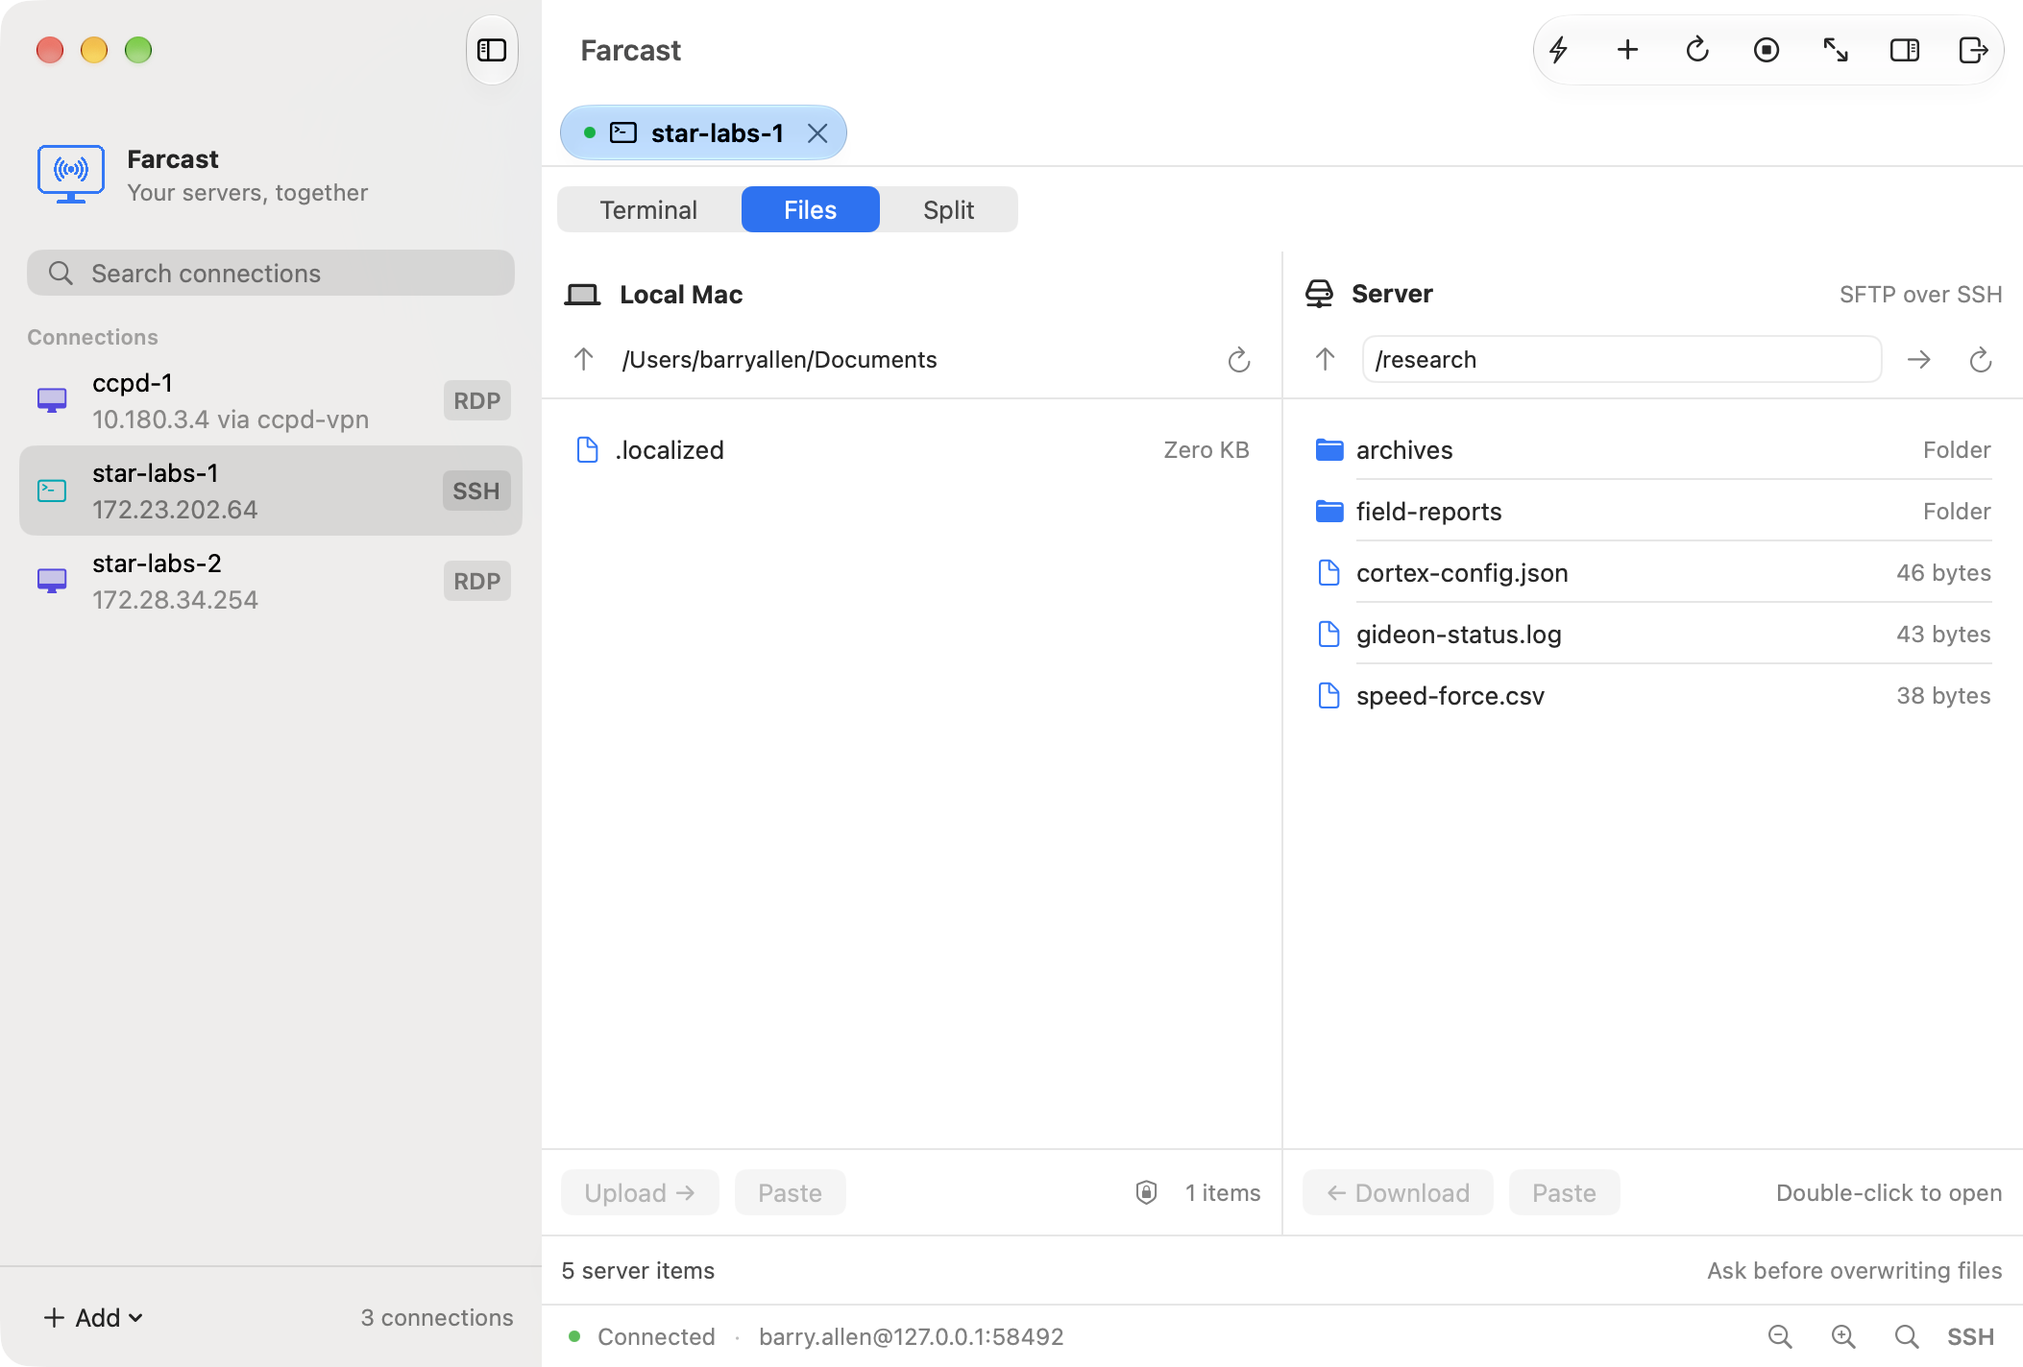
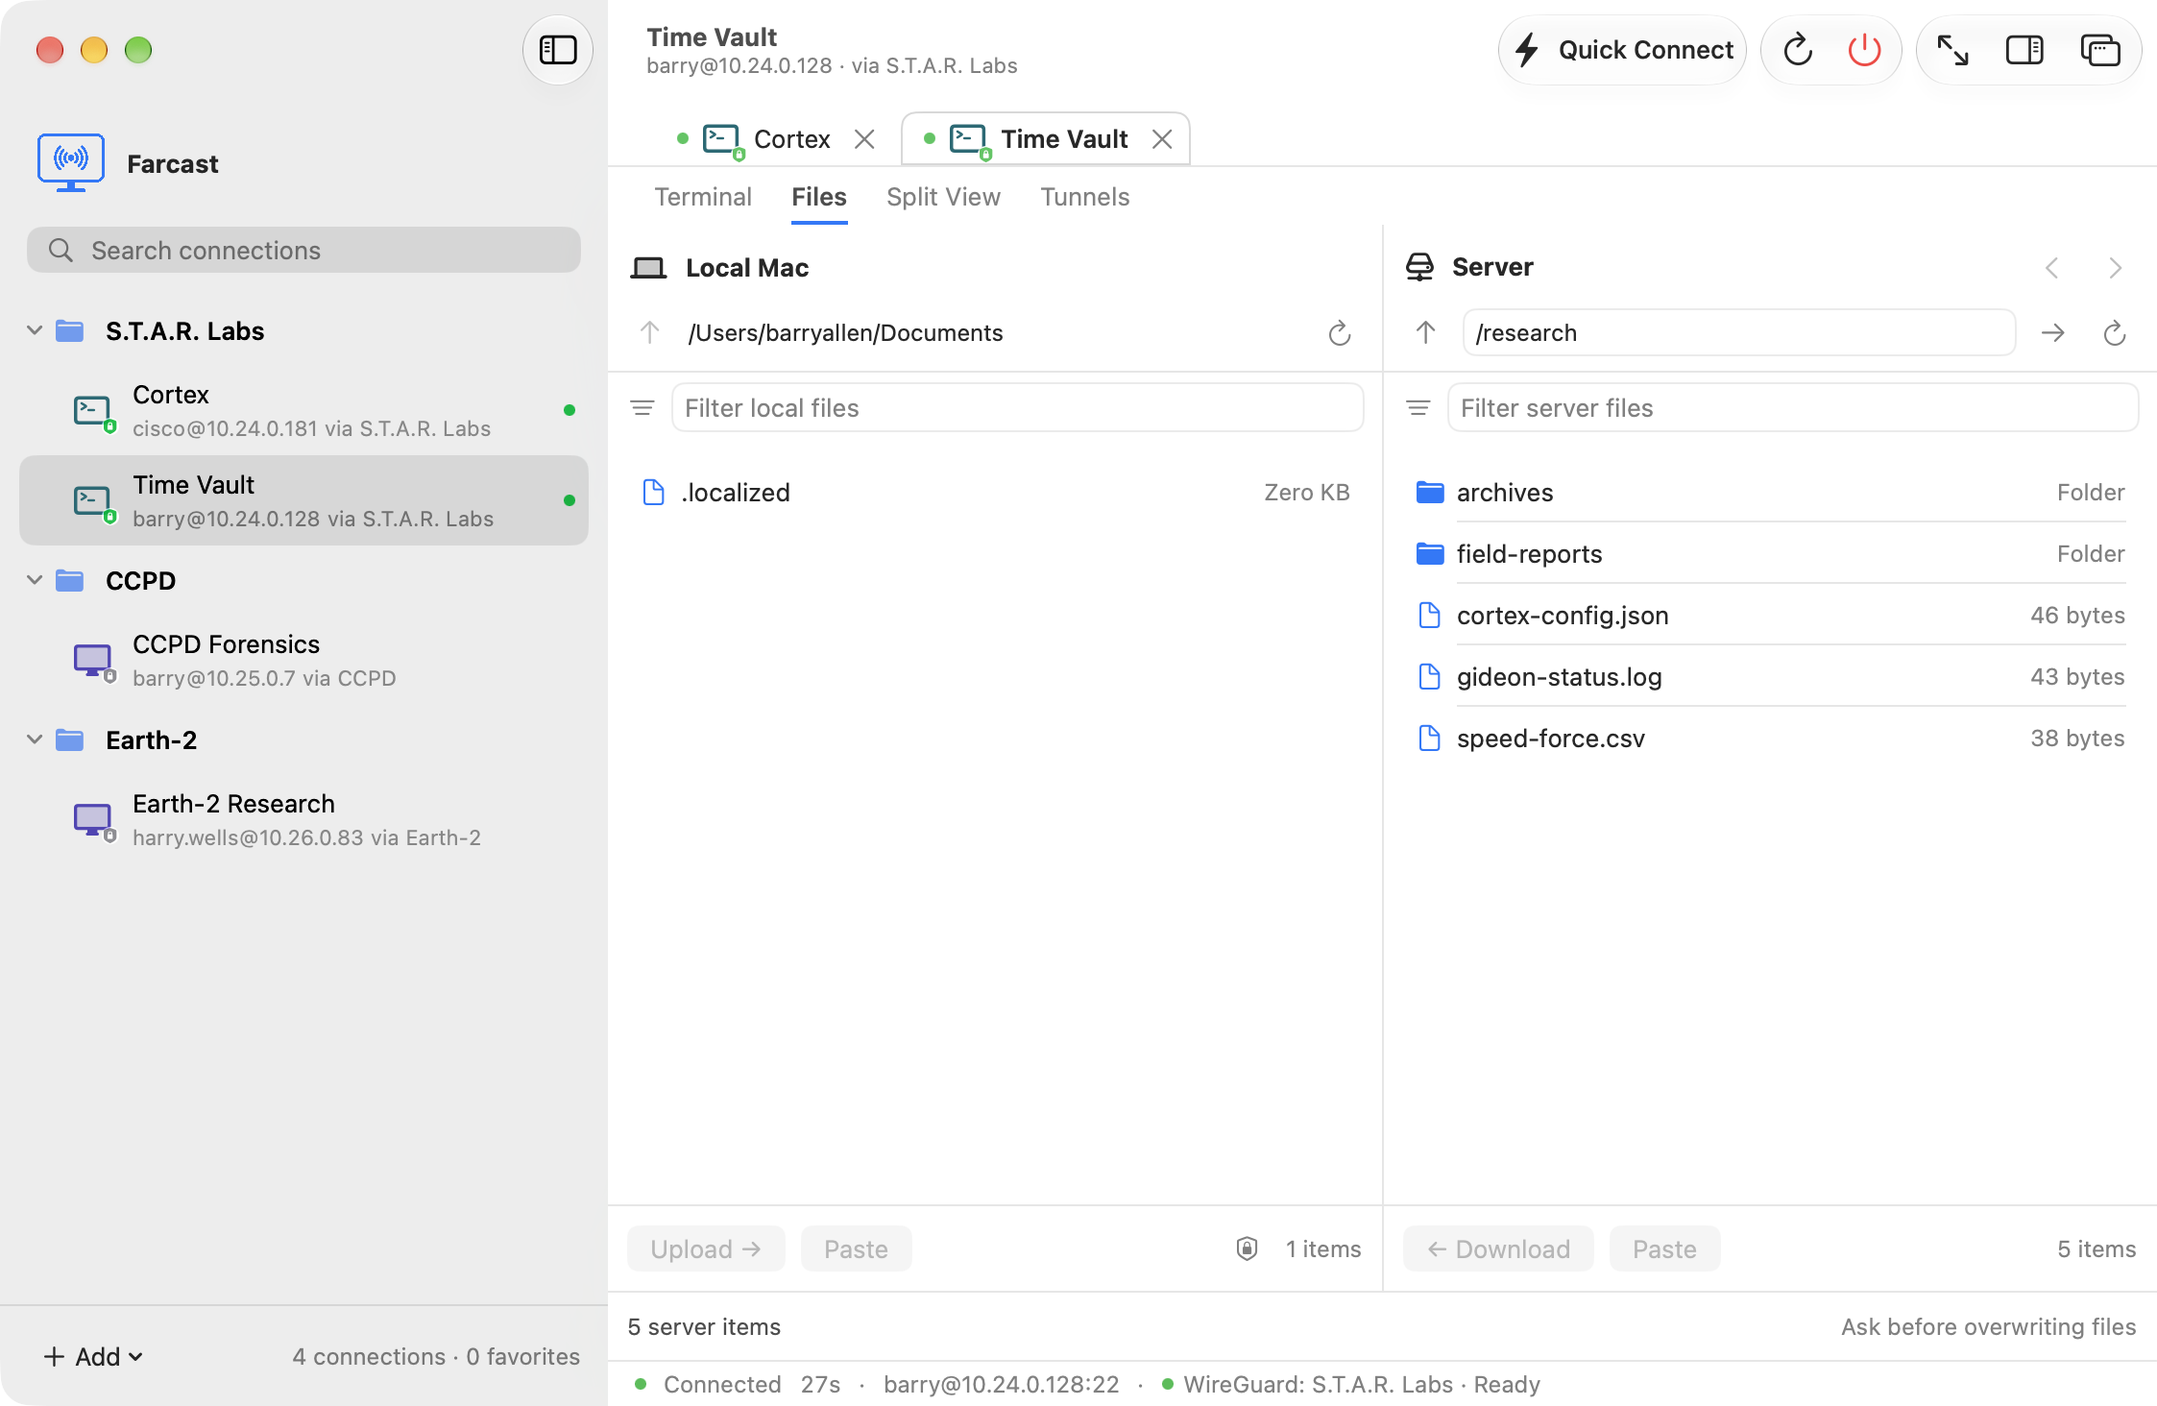
update screenshots

diff --git a/Showcase/ShowcaseLibrary.swift b/Showcase/ShowcaseLibrary.swift
@@ -25,6 +25,25 @@ import SwiftData
             let favorite: Bool
             let files: Bool?
         }
+        struct SFTP: Decodable {
+            struct Pane: Decodable {
+                struct Entry: Decodable {
+                    let name: String
+                    let directory: Bool
+                    let size: UInt64
+                }
+                let path: String
+                let folders: [String: [Entry]]
+                func files(at path: String) -> [TransferFile] {
+                    (folders[path] ?? []).map {
+                        TransferFile(name: $0.name, directory: $0.directory, regular: !$0.directory, size: $0.size)
+                    }
+                }
+            }
+            let local: Pane
+            let remote: Pane
+        }
+        let sftp: SFTP
         let vpns: [VPN]
         let connections: [Connection]
     }
@@ -63,15 +82,30 @@ import SwiftData
                 session.state == .connected && workspace.prompts.isEmpty,
                 "Demo session did not connect without prompts.")
             if saved.kind == .ssh {
-                try require(
-                    session.files.remoteFiles.count == SFTPController.showcaseFiles.count,
-                    "Demo remote file listing is missing.")
-                session.files.navigateRemote(path: "/home/research/Reports")
-                try require(
-                    session.files.remotePath == "/home/research/Reports", "Demo remote folder navigation failed.")
-                try require(
-                    session.files.localFiles.count == SFTPController.showcaseFiles.count,
-                    "Demo local file listing is missing.")
+                let localPath = sftp.local.path
+                let remotePath = sftp.remote.path
+                let expectedLocal = sftp.local.files(at: localPath)
+                let expectedRemote = sftp.remote.files(at: remotePath)
+                try require(session.files.remotePath == remotePath, "Demo remote starting path is incorrect.")
+                try require(session.files.remoteFiles == expectedRemote, "Demo remote listing differs from catalog.")
+                try require(session.files.localURL?.path == localPath, "Demo local starting path is incorrect.")
+                try require(session.files.localFiles == expectedLocal, "Demo local listing differs from catalog.")
+                for path in sftp.remote.folders.keys.sorted() {
+                    session.files.navigateRemote(path: path)
+                    try require(session.files.remotePath == path, "Demo remote navigation failed.")
+                    try require(
+                        session.files.remoteFiles == sftp.remote.files(at: path),
+                        "Demo remote folder differs from catalog.")
+                    try require(
+                        session.files.localFiles == expectedLocal, "Demo remote navigation changed local content.")
+                }
+                for path in sftp.local.folders.keys.sorted() {
+                    session.files.localURL = URL(fileURLWithPath: path, isDirectory: true)
+                    session.files.refreshLocal()
+                    try require(
+                        session.files.localFiles == sftp.local.files(at: path),
+                        "Demo local folder differs from catalog.")
+                }
             } else {
                 try require(session.desktop?.mailbox.snapshot()?.1.width == 1440, "Demo desktop frame is missing.")
                 try require(
@@ -93,6 +127,7 @@ import SwiftData
             "PASS showcase: \(connections.count) catalog connections and \(vpns.count) VPN profiles; seeded sessions, file/desktop content, reconnect and disconnect"
         )
     }
+    static var sftp: Catalog.SFTP!
     static var fileProfiles = Set<UUID>()
     static func loadCatalog() throws -> Catalog {
         guard let url = Bundle.main.url(forResource: "catalog", withExtension: "json") else {
@@ -110,6 +145,7 @@ import SwiftData
     }
     static func seed(_ container: ModelContainer) throws {
         let catalog = try loadCatalog()
+        sftp = catalog.sftp
         let context = container.mainContext
         var folders: [String: UUID] = [:]
         for connection in catalog.connections where folders[connection.folder] == nil {
@@ -131,7 +167,7 @@ import SwiftData
             vpnIDs.append(saved.id)
             var credential = ConnectionCredential()
             credential.wireGuardPrivateKey = Data(repeating: 24, count: 32).base64EncodedString()
-            credential.openVPNUsername = "barry.allen"
+            credential.openVPNUsername = "barry"
             try CredentialStore.save(credential, for: saved.id)
         }
         for connection in catalog.connections {

diff --git a/Showcase/Session.swift b/Showcase/Session.swift
@@ -5,38 +5,33 @@ extension RemoteSession {
         vpnState = profile.wireGuardID == nil ? .disconnected : .connected
         record("Session connected.")
         if let terminal {
-            files.showcaseListing(path: "/home/\(profile.username)")
+            files.showcaseListing(path: ".")
             if ShowcaseLibrary.fileProfiles.contains(profile.id) { sshMode = .files }
+            let prompt = "barry@star-labs:~$ "
             let text = """
-                \u{1B}[1;36mWelcome to \(profile.host)\u{1B}[0m
-                Ubuntu 24.04.3 LTS · arm64 · Secure Shell
+                S.T.A.R. LABS
+                Scientific and Technological Advanced Research Laboratories
 
-                  System load:  0.08              Processes:       142
-                  Memory usage: 24%               Users logged in: 2
-                  Disk usage:   18% of 240 GB     Updates:         0 pending
+                \(prompt)gideon status
 
-                \u{1B}[32m\(profile.username)@\(profile.host)\u{1B}[0m:~$ systemctl --user status research-stack
-                \u{1B}[32m●\u{1B}[0m research-stack.service - Research services
-                     Loaded: loaded; enabled
-                     Active: \u{1B}[32mactive (running)\u{1B}[0m
+                  \u{1B}[32mGideon is online. All systems are operational.\u{1B}[0m
 
-                  SERVICE                STATUS       UPTIME      HEALTH
-                  telemetry-api          running      12d 04h     healthy
-                  archive-worker         running      12d 04h     healthy
-                  metrics-collector      running      12d 04h     healthy
-                  backup-scheduler       running       3d 17h     healthy
+                  Service                 Status      Last update
+                  Cortex telemetry        running     2 minutes ago
+                  Speed Force monitor     stable      12 seconds ago
+                  Particle accelerator    standby     1 hour ago
+                  Central City sensors    connected   just now
 
-                \u{1B}[32m\(profile.username)@\(profile.host)\u{1B}[0m:~$ ls projects
-                \u{1B}[1;34marchives  cortex  telemetry  reports\u{1B}[0m
+                \(prompt)ls research
+                \u{1B}[34mfield-reports  telemetry  archives\u{1B}[0m
 
-                \u{1B}[32m\(profile.username)@\(profile.host)\u{1B}[0m:~$ 
+                \(prompt)
                 """
             terminal.view.feed(text: text.replacingOccurrences(of: "\n", with: "\r\n"))
-            let username = profile.username
             terminal.sendBytes = { [weak terminal] bytes in
                 guard let terminal else { return }
                 if bytes.contains(13) {
-                    terminal.view.feed(text: "\r\nAll services healthy.\r\n\u{1B}[32m\(username)\u{1B}[0m:~$ ")
+                    terminal.view.feed(text: "\r\nGideon is online. All systems are operational.\r\n\(prompt)")
                 } else {
                     terminal.view.feed(byteArray: Array(bytes)[...])
                 }

diff --git a/Showcase/Files.swift b/Showcase/Files.swift
@@ -1,22 +1,9 @@
 extension SFTPController {
     func showcaseListing(path: String) {
         requested = true
-        remotePath = path == "." ? "/home/cisco.ramon" : path
-        remoteFiles = Self.showcaseFiles
+        remotePath = path == "." ? ShowcaseLibrary.sftp.remote.path : path
+        remoteFiles = ShowcaseLibrary.sftp.remote.files(at: remotePath)
         recordRemoteVisit(remotePath)
         message = "\(remoteFiles.count) server items"
-    }
-    static var showcaseFiles: [TransferFile] {
-        [
-            TransferFile(name: "Archives", directory: true, regular: false, size: 0),
-            TransferFile(name: "Projects", directory: true, regular: false, size: 0),
-            TransferFile(name: "Reports", directory: true, regular: false, size: 0),
-            TransferFile(name: "Telemetry", directory: true, regular: false, size: 0),
-            TransferFile(name: "deployment.yml", directory: false, regular: true, size: 2840),
-            TransferFile(name: "network-topology.pdf", directory: false, regular: true, size: 248320),
-            TransferFile(name: "research-notes.md", directory: false, regular: true, size: 12840),
-            TransferFile(name: "sensor-readings.csv", directory: false, regular: true, size: 842000),
-            TransferFile(name: "weekly-report.pdf", directory: false, regular: true, size: 1_248_000),
-        ]
     }
 }

diff --git a/Showcase/prepare.py b/Showcase/prepare.py
@@ -33,6 +33,26 @@ def validate_catalog(path):
         vpn = connection.get('vpn')
         if vpn is not None and (type(vpn) is not int or not 0 <= vpn < len(vpns)):
             raise ValueError('connection VPN index is outside the vpns array')
+    sftp = catalog.get('sftp')
+    if not isinstance(sftp, dict):
+        raise ValueError('sftp needs independent local and remote panes')
+    for side in ['local', 'remote']:
+        pane = sftp.get(side)
+        if (not isinstance(pane, dict) or not isinstance(pane.get('path'), str) or
+                not pane['path'].startswith('/') or not isinstance(pane.get('folders'), dict) or
+                pane['path'] not in pane['folders']):
+            raise ValueError('each SFTP pane needs an absolute starting path and matching folders entry')
+        for path, entries in pane['folders'].items():
+            if not path.startswith('/') or not isinstance(entries, list):
+                raise ValueError('SFTP folders need absolute paths and entry arrays')
+            names = set()
+            for entry in entries:
+                if (not isinstance(entry, dict) or not isinstance(entry.get('name'), str) or
+                        entry['name'] in ['', '.', '..'] or '/' in entry['name'] or
+                        entry['name'] in names or not isinstance(entry.get('directory'), bool) or
+                        type(entry.get('size')) is not int or not 0 <= entry['size'] <= 2**64 - 1):
+                    raise ValueError('SFTP entries need unique filenames, boolean directory and UInt64 byte size')
+                names.add(entry['name'])
     return catalog
 
 
@@ -107,7 +127,7 @@ def prepare():
         values.removeValue(forKey: id)
     }''')
     files = 'Farcast/Features/Sessions/SFTPController.swift'
-    region(files, '        let realHome = getpwuid', '    private func saveHomeAccess', '''        self.homeURL = URL(fileURLWithPath: "/Users/barry.allen", isDirectory: true)
+    region(files, '        let realHome = getpwuid', '    private func saveHomeAccess', '''        self.homeURL = URL(fileURLWithPath: ShowcaseLibrary.sftp.local.path, isDirectory: true)
         localURL = self.homeURL
         needsLocalAccess = false
         refreshLocal()
@@ -121,7 +141,9 @@ def prepare():
         localURL = homeURL
         refreshLocal()
     }
-    func refreshLocal() { localFiles = Self.showcaseFiles }
+    func refreshLocal() {
+        localFiles = ShowcaseLibrary.sftp.local.files(at: localURL?.path ?? ShowcaseLibrary.sftp.local.path)
+    }
 ''')
     region(files, '    func open(_ file:', '    func openLocal(_ file:', '''    func open(_ file: TransferFile, local: Bool) {
         if file.directory {

diff --git a/Showcase/test_isolation.py b/Showcase/test_isolation.py
@@ -41,6 +41,37 @@ class ShowcaseIsolation(unittest.TestCase):
         with self.assertRaises(ValueError):
             self.validate({'connections': [], 'vpns': []})
 
+    def test_sftp_panes_allow_independent_content_at_same_path(self):
+        catalog = json.loads((ROOT / 'Showcase/catalog.json').read_text())
+        catalog['sftp'] = {
+            'local': {'path': '/same', 'folders': {'/same': []}},
+            'remote': {'path': '/same', 'folders': {'/same': [
+                {'name': 'server-only.txt', 'directory': False, 'size': 43}]}}}
+        result = self.validate(catalog)['sftp']
+        self.assertEqual(result['local']['folders']['/same'], [])
+        self.assertEqual(result['remote']['folders']['/same'][0]['size'], 43)
+
+    def test_sftp_rejects_invalid_folder_content(self):
+        original = json.loads((ROOT / 'Showcase/catalog.json').read_text())
+        for side in ['local', 'remote']:
+            for change in ['relative', 'missing', 'negative', 'boolean_size', 'duplicate']:
+                with self.subTest(side=side, change=change):
+                    catalog = json.loads(json.dumps(original))
+                    pane = catalog['sftp'][side]
+                    entries = pane['folders'][pane['path']]
+                    if change == 'relative':
+                        pane['path'] = 'relative'
+                    elif change == 'missing':
+                        pane['folders'] = {}
+                    elif change == 'negative':
+                        entries[0]['size'] = -1
+                    elif change == 'boolean_size':
+                        entries[0]['size'] = True
+                    else:
+                        entries.append(entries[0].copy())
+                    with self.assertRaises(ValueError):
+                        self.validate(catalog)
+
     def test_catalog_rejects_trailing_comma(self):
         with tempfile.TemporaryDirectory() as directory:
             path = Path(directory) / 'catalog.json'

diff --git a/Showcase/README.md b/Showcase/README.md
@@ -36,10 +36,28 @@ open .build/Xcode/Build/Products/Release/Farcast-demo.app --args --showcase-view
 # Also: files, rdp, vnc, vpn
 ```
 
-Edit `catalog.json` for connections and VPN metadata, `Session.swift` for terminal
-content, `Files.swift` for directory listings, and `ShowcaseDesktop.swift` for the
-original desktop artwork. Use reserved `.example` hosts. No external artwork is
-required. README screenshots are not modified by the build.
+Edit `catalog.json` for connections, VPN metadata and SFTP content. The SSH text
+in `Session.swift` and default SFTP entries reproduce the mock data in the existing
+README screenshots; connection metadata remains independently editable.
+
+Configure `sftp.local` and `sftp.remote` separately. Each pane has an absolute
+starting `path` and a `folders` object mapping absolute folder paths to entry arrays.
+Each entry has `name`, `directory` (boolean) and `size` (bytes). For example:
+
+```json
+{"path": "/research", "folders": {"/research": [
+  {"name": "archives", "directory": true, "size": 0},
+  {"name": "gideon-status.log", "directory": false, "size": 43}
+], "/research/archives": []}}
+```
+
+The starting path must have a listing. Use an empty array for an empty folder;
+unlisted folders also display empty. Local and remote navigation/refresh read only
+their own configured listings, including when both panes use the same path. No real
+folders are read or created. Rebuild the demo after editing the catalog.
+`Files.swift` adapts these listings, and `ShowcaseDesktop.swift` provides the original
+desktop artwork. Use fictional connection metadata. README screenshots are not
+modified by the build.
 
 `prepare.py` copies app sources/project into ignored `.build/showcase-source`, then
 applies checked source replacements and adds these support files there. Production

diff --git a/CHANGELOG.md b/CHANGELOG.md
@@ -5,6 +5,8 @@ assigned only when a separate release request is made.
 
 ## Unreleased
 
+- Match Showcase SSH and SFTP mock content to the existing screenshots; configure local and server folder paths/listings independently in the demo catalog.
+
 - Fix demo build verification after editing the sample connection count; report catalog/session errors clearly and verify the demo uses the current version and build.
 
 ## 1.6.0 — 2026-10-19

diff --git a/README.md b/README.md
@@ -26,7 +26,7 @@ owner-only, **unencrypted local files**.
 
 ![Local and remote SFTP file panels](docs/images/Farcast-SFTP.png)
 
-**Remote desktop display settings**
+**Remote desktop**
 
 <img src="docs/images/Farcast-RDP.png" alt="Remote desktop resolution and Retina settings" width="540">
 
